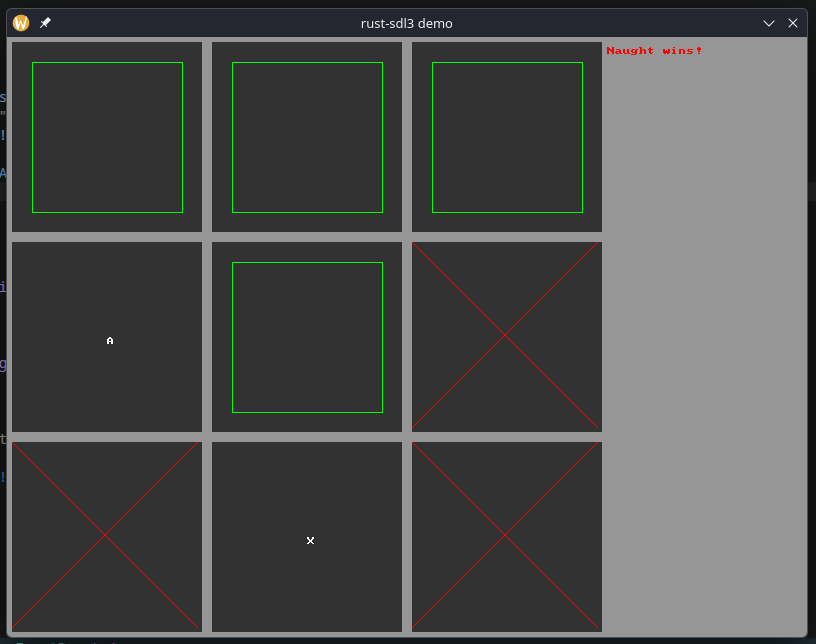
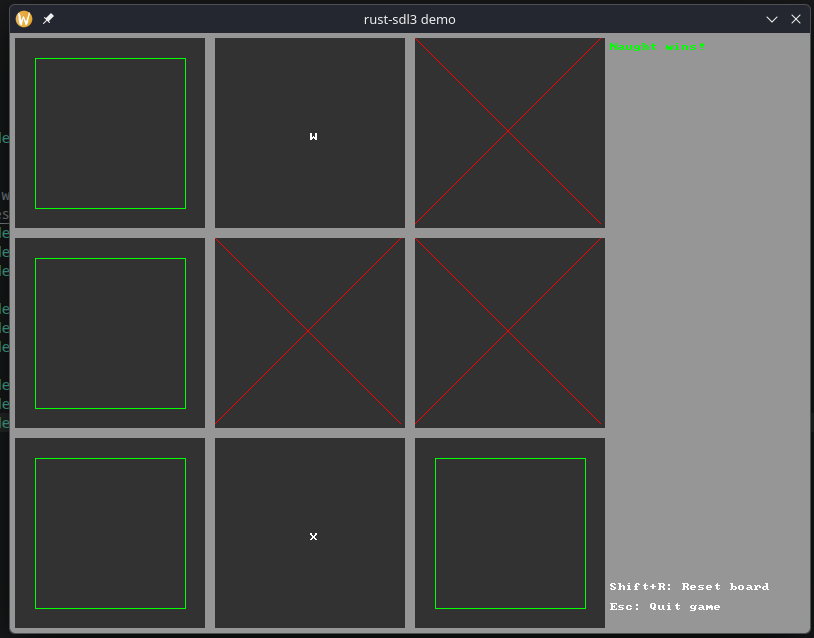
Add ResetGame button

diff --git a/tictactoe_sdl3/src/main.rs b/tictactoe_sdl3/src/main.rs
@@ -1,7 +1,7 @@
 use tictactoe_ratatui::tictactoe::{Cell, GameState, Outcome, PlaceError, Player};
 
 use sdl3::event::Event;
-use sdl3::keyboard::Keycode;
+use sdl3::keyboard::{Keycode, Scancode, Mod};
 use sdl3::pixels::Color;
 use sdl3::render::{Canvas, FPoint};
 use sdl3::video::Window;
@@ -118,11 +118,17 @@ impl App {
             
         };
 
+        // Help text bottom right
+        self.canvas.set_draw_color(BLACK);
+        self.canvas.draw_debug_text("Shift+R: Reset board", (AREA_X, 550.0));
+        self.canvas.draw_debug_text("Esc: Quit game", (AREA_X, 570.0));
+
         self.canvas.present();
     }
 
     fn process_inputs(&mut self, event_pump: &mut sdl3::EventPump) {
         for event in event_pump.poll_iter() {
+
             match event {
                 Event::Quit { .. }
                 | Event::KeyDown {
@@ -130,22 +136,33 @@ impl App {
                     ..
                 } => self.quit = true,
 
+                // Reset
+                Event::KeyDown {scancode: Some(Scancode::R), keymod: keymod, .. } if keymod.contains(Mod::LSHIFTMOD) => self.reset_board(),
+
                 // Cell inputs
-                Event::KeyDown {keycode: Some(Keycode::Q), .. } => self.last_placement = self.board.place(0,0),
-                Event::KeyDown {keycode: Some(Keycode::W), .. } => self.last_placement = self.board.place(1,0),
-                Event::KeyDown {keycode: Some(Keycode::E), .. } => self.last_placement = self.board.place(2,0),
+                // Scancode since we don't care about what is printed on the keycap, we want the physical button layout
+                // See https://wiki.libsdl.org/SDL3/BestKeyboardPractices#the-101-button-joystick
+                Event::KeyDown {scancode: Some(Scancode::Q), .. } => self.last_placement = self.board.place(0,0),
+                Event::KeyDown {scancode: Some(Scancode::W), .. } => self.last_placement = self.board.place(1,0),
+                Event::KeyDown {scancode: Some(Scancode::E), .. } => self.last_placement = self.board.place(2,0),
 
-                Event::KeyDown {keycode: Some(Keycode::A), .. } => self.last_placement = self.board.place(0,1),
-                Event::KeyDown {keycode: Some(Keycode::S), .. } => self.last_placement = self.board.place(1,1),
-                Event::KeyDown {keycode: Some(Keycode::D), .. } => self.last_placement = self.board.place(2,1),
+                Event::KeyDown {scancode: Some(Scancode::A), .. } => self.last_placement = self.board.place(0,1),
+                Event::KeyDown {scancode: Some(Scancode::S), .. } => self.last_placement = self.board.place(1,1),
+                Event::KeyDown {scancode: Some(Scancode::D), .. } => self.last_placement = self.board.place(2,1),
 
-                Event::KeyDown {keycode: Some(Keycode::Y), .. } | Event::KeyDown {keycode: Some(Keycode::Z), .. } => self.last_placement = self.board.place(0,2),
-                Event::KeyDown {keycode: Some(Keycode::X), .. } => self.last_placement = self.board.place(1,2),
-                Event::KeyDown {keycode: Some(Keycode::C), .. } => self.last_placement = self.board.place(2,2),
+                Event::KeyDown {scancode: Some(Scancode::Z), .. } => self.last_placement = self.board.place(0,2),
+                Event::KeyDown {scancode: Some(Scancode::X), .. } => self.last_placement = self.board.place(1,2),
+                Event::KeyDown {scancode: Some(Scancode::C), .. } => self.last_placement = self.board.place(2,2),
 
                 _ => {}
             }
         }
+    }
+
+    fn reset_board(&mut self) {
+        println!("RESET GAME");
+        self.last_placement = Ok(());
+        self.board = GameState::default();
     }
 }
 
@@ -199,21 +216,14 @@ pub fn main() {
     };
 
     app.board.place(0, 0);
-    app.board.place(2, 1);
 
-    println!("Hello, world!");
-    println!("{:?}", app.board);
-
-    app.render();
+    // app.render();
 
     let mut event_pump = sdl_context.event_pump().unwrap();
     while !app.quit {
         app.process_inputs(&mut event_pump);
-
         app.render();
-
         // The rest of the game loop goes here...
-
         ::std::thread::sleep(Duration::new(0, 1_000_000_000u32 / 60));
     }
 }
